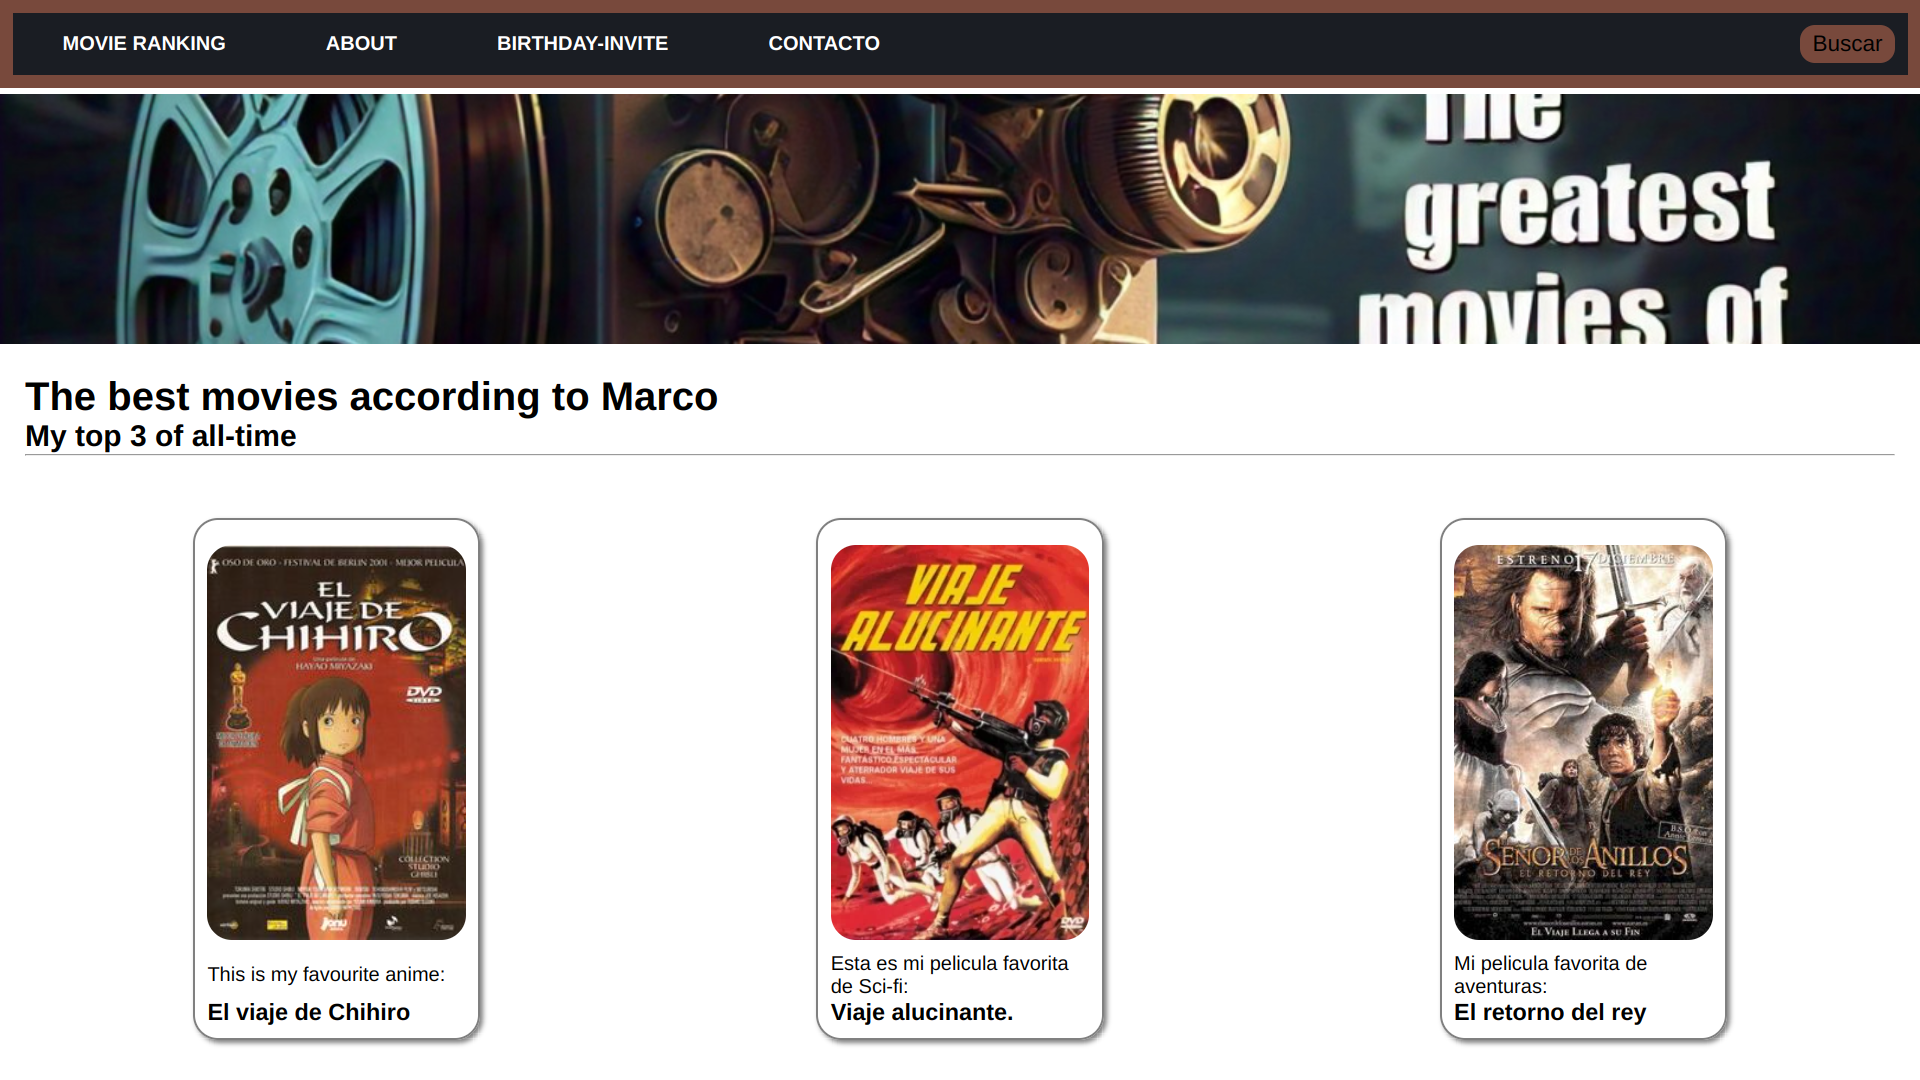
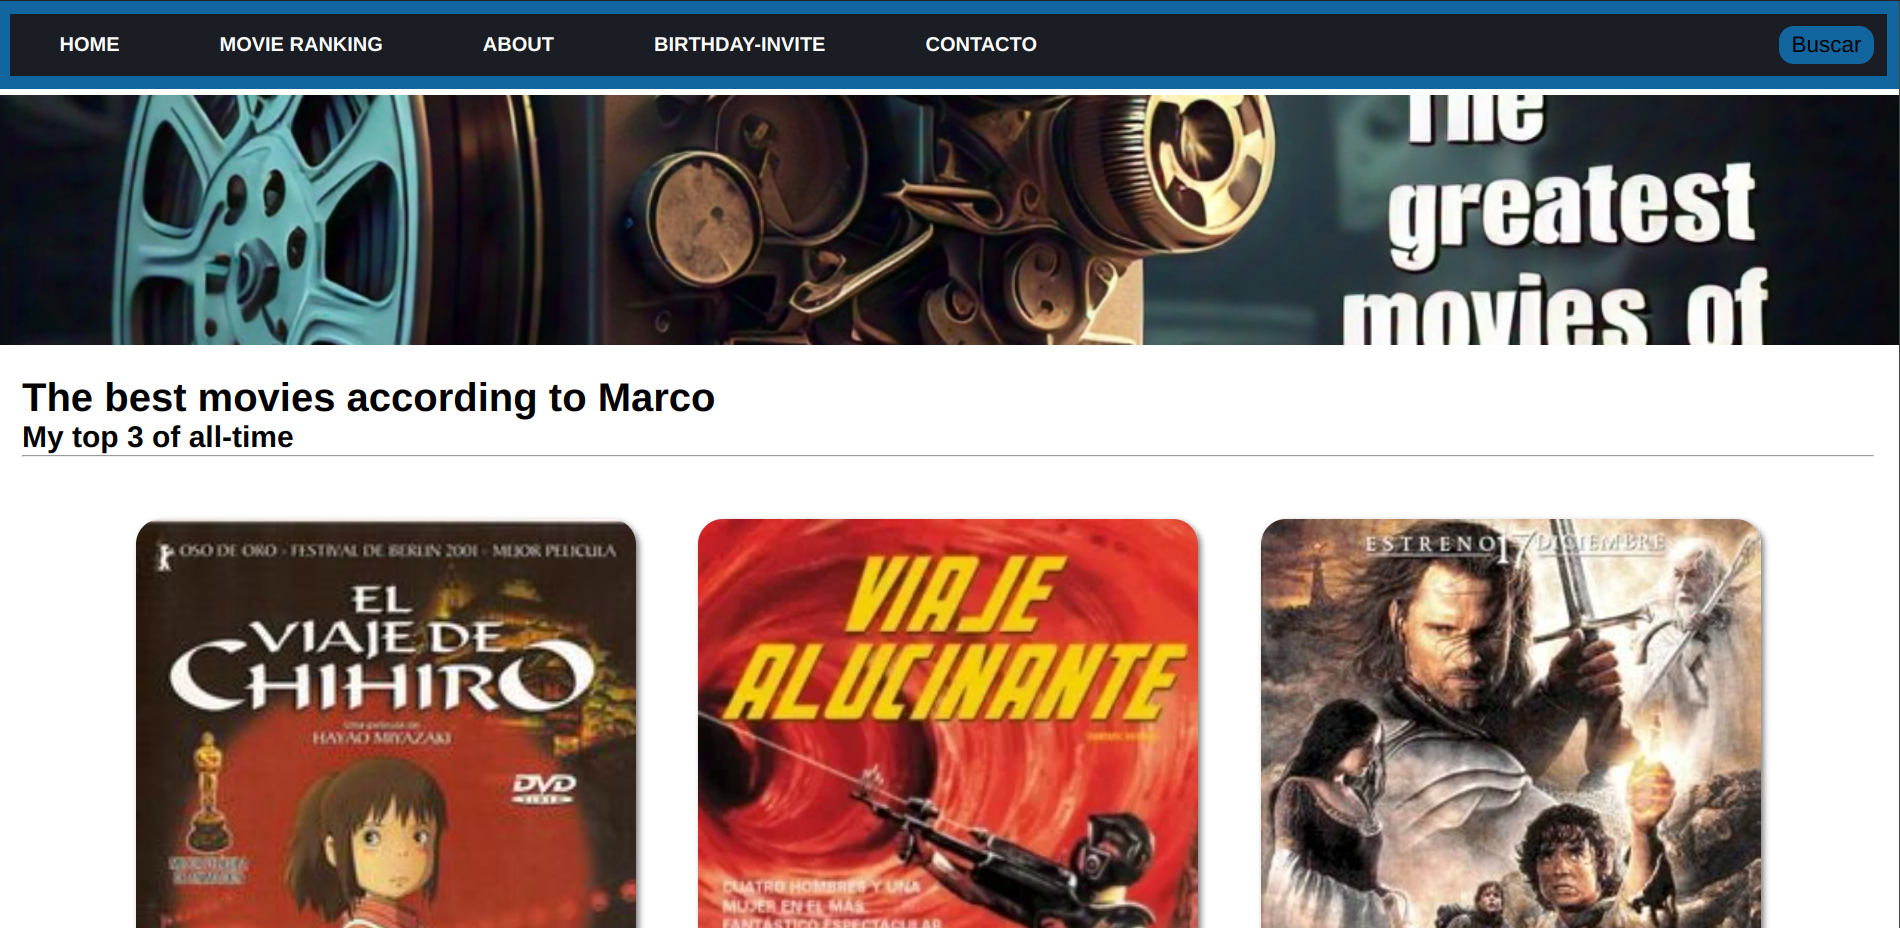
Add files via upload
Se modifico el estilo de index

diff --git a/index.html b/index.html
@@ -40,15 +40,11 @@
 			    <div class="card card-portafolio">
 				    <a href="/public/movie-ranking.html">
 				    <img src="assets/images/ranking_movies.png" alt="Foto de ranking_movies">
-				    <h4>Pagina web para mostrar las mejores peliculas:</h4>
-				    <p>Este es un ejercicio para la creacion de una sencilla pagina web.</p>
                                     </a>
 			    </div>
 			    <div class="card card-portafolio">
 				    <a href="/public/birthday-invite.html">
 				    <img src="assets/images/birthday.png" alt="Imagen de una pagina web">
-				    <h4>Esta es una pagina web para usarse como invitacion</h4>
-				    <p>Es un proyecto para aprender a usar HTML y CSS</p>
                                     </a>
 			    </div>
 		    </div>

diff --git a/assets/styles/style.css b/assets/styles/style.css
@@ -104,24 +104,24 @@ header{
 	flex-direction: column;
 	box-shadow: 2px 2px 5px gray;
 	border-radius: 20px;
-	padding: 10px;
 	justify-content: space-between;
 	cursor: pointer;
 	text-decoration: none;
 }
-.card img {
-	height: 200px;
-	object-fit: cover;
-	border-radius: 20px;
-	overflow-x: hidden;
-}
  
 
 .card-portafolio {
-	max-width: 100%;
+	width: 400px;
 	overflow: hidden;
-	border-radius: 0;
-	transition: transform ease-in-out .8s;
+	border-radius: none;
+	transition: transform ease-in-out .3s;
+	height: 400px;
+}
+.card img {
+	max-width: 100%;
+	width: 400px;
+	border-radius: 20px;
+	overflow-x: hidden;
 }
 .card-portafolio:hover {
 	transform: scale(1.2);
